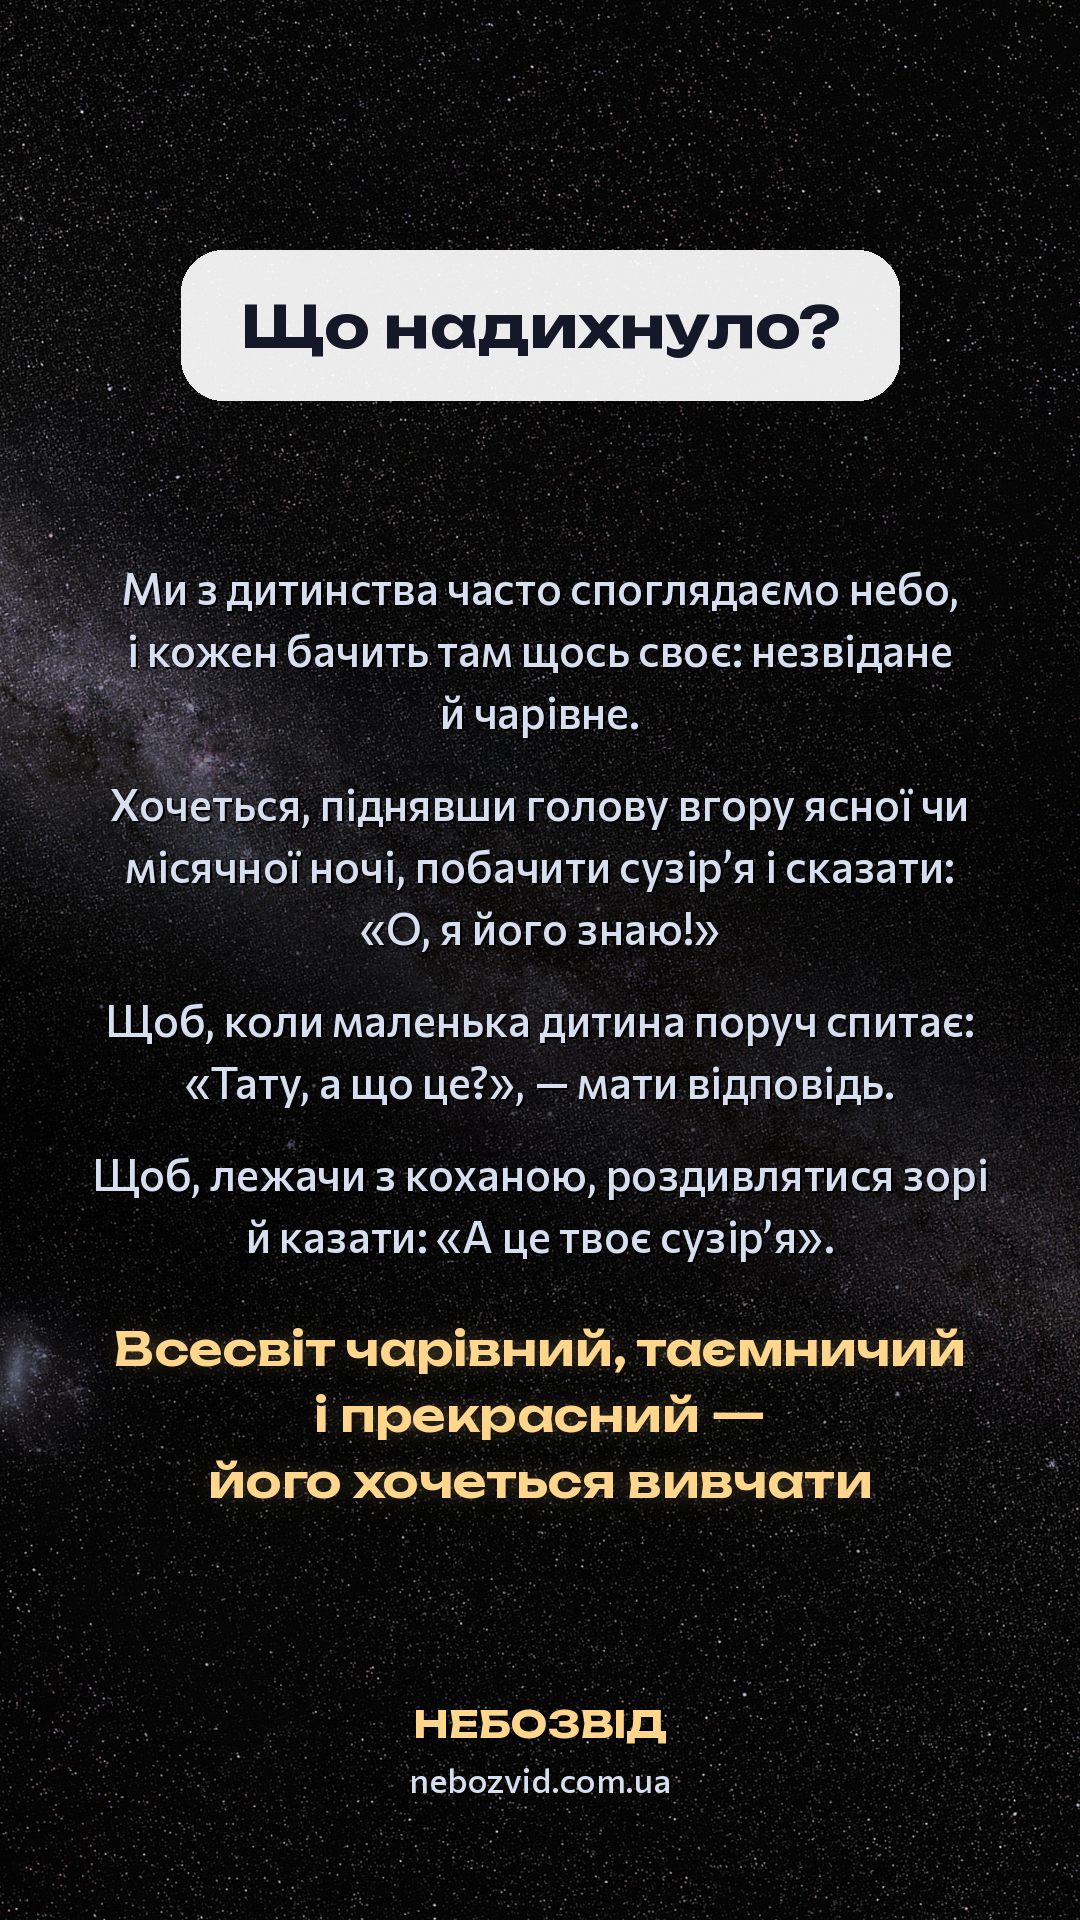
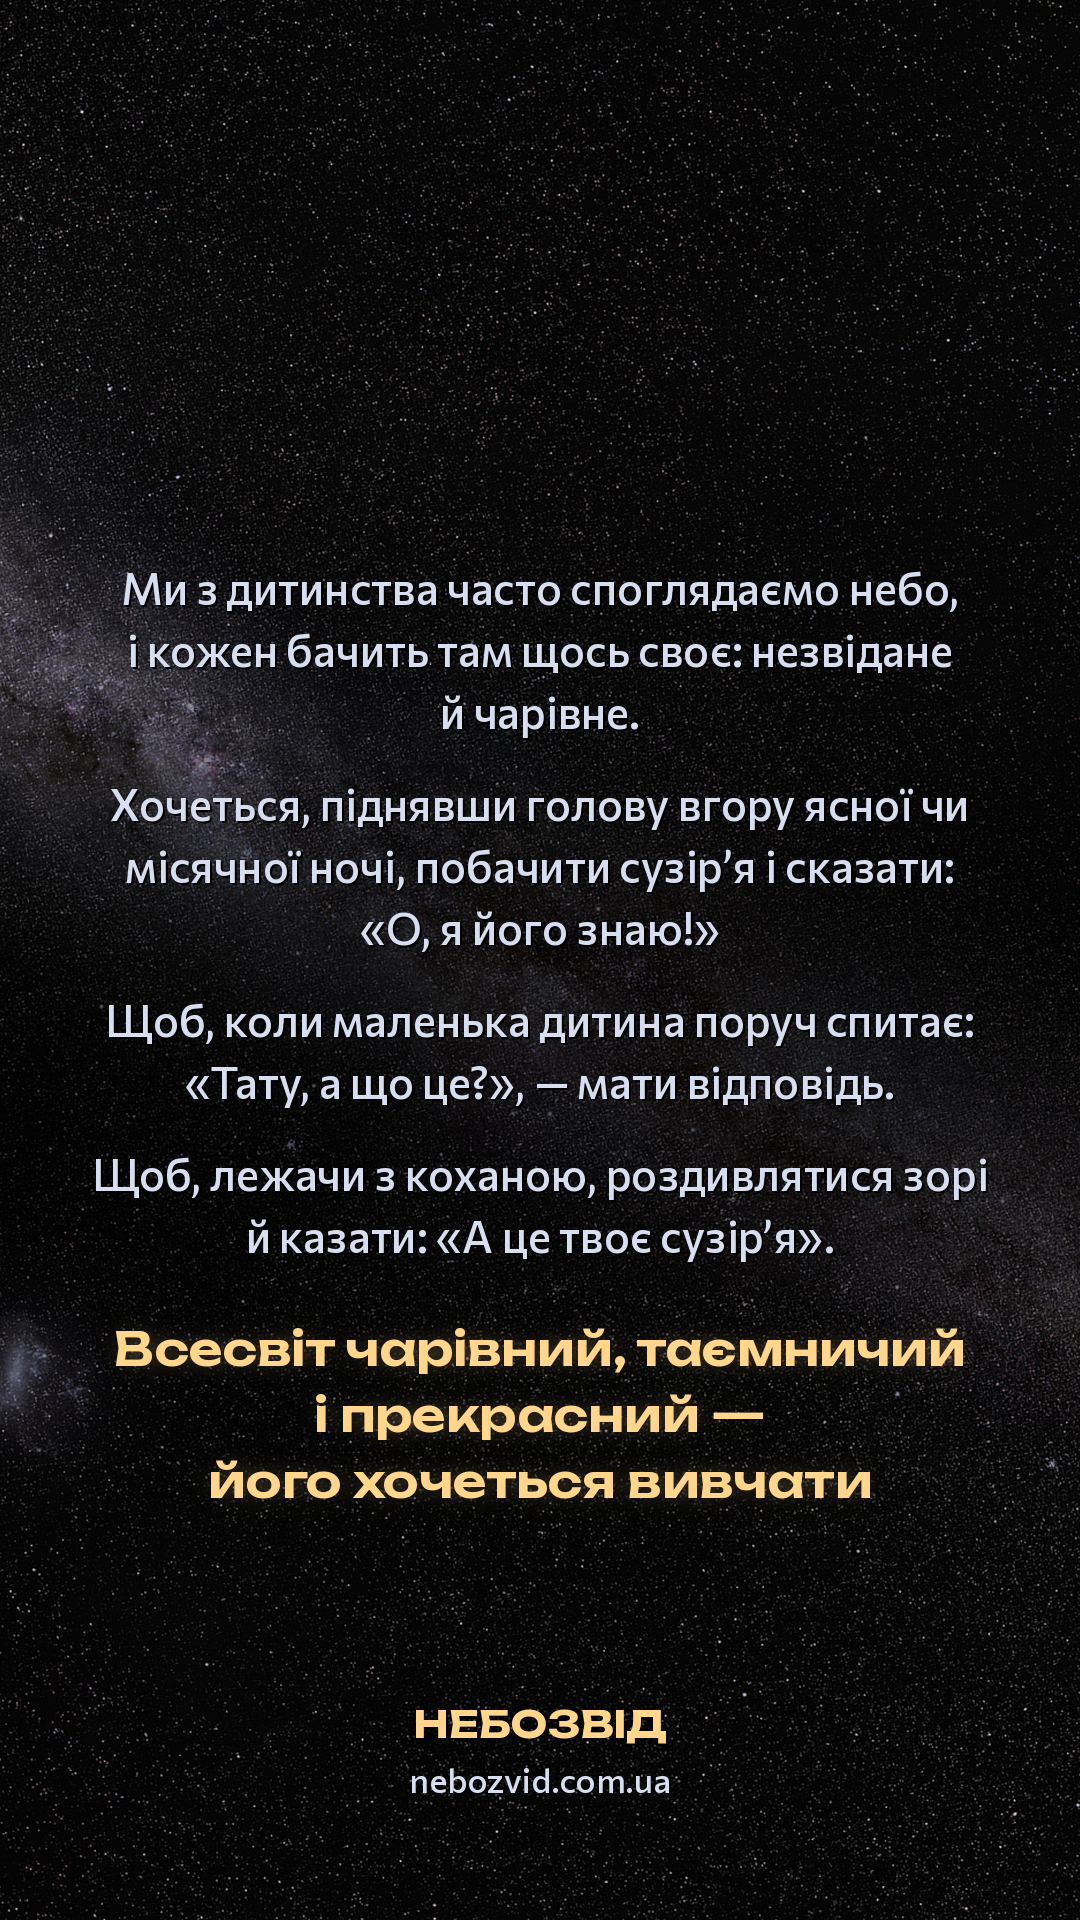
Сторіз «Що надихнуло?»: без стікера-питання (автор додасть сам)
Claude-Session: https://claude.ai/code/session_01RfjZRMMZMSvucWLpqkx2Sn

Changed region(s): [[0.1528, 0.125, 0.8556, 0.2188]]

diff --git a/videos/stories/inspired.py b/videos/stories/inspired.py
@@ -29,14 +29,8 @@ def C(sz, w=500):
 gold, white, soft = (255, 214, 140), (255, 255, 255), (215, 222, 240)
 d = ImageDraw.Draw(img)
 
-# the question, as an Instagram question sticker
-q = 'Що надихнуло?'; fq = U(58, 700)
-qw = d.textlength(q, font=fq); bw, bh = qw + 120, 150; bx, by = (W - bw) / 2, 250
-pan = Image.new('RGBA', (W, H), (0, 0, 0, 0)); pd = ImageDraw.Draw(pan)
-pd.rounded_rectangle((bx, by, bx + bw, by + bh), 42, fill=(255, 255, 255, 235))
-img.alpha_composite(pan)
+# the question sticker is added by the author in Instagram (the space above the text is left for it)
 d = ImageDraw.Draw(img)
-d.text(((W - qw) / 2, by + (bh - 70) / 2), q, font=fq, fill=(20, 24, 40))
 
 def wrap(text, font, maxw):
     out, line = [], ''
